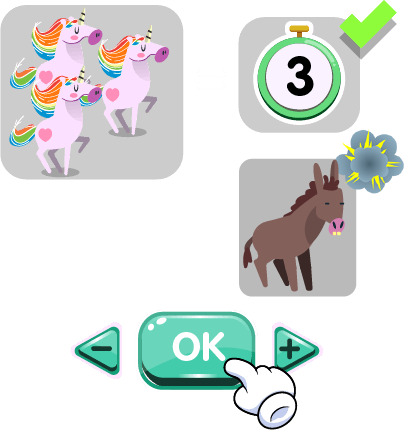
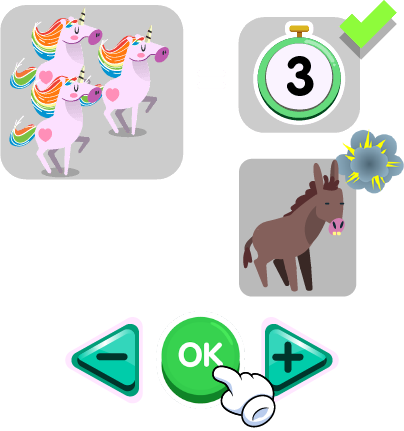
sushiTowers

Changed region(s): [[0.1782, 0.7239, 0.8317, 1.0]]

diff --git a/newStructure/minigames/sushiTowers/js/scenes/sushi.js b/newStructure/minigames/sushiTowers/js/scenes/sushi.js
@@ -58,7 +58,23 @@ var sushi = function(){
                 file: soundsPath + "towerCollapse.mp3"},
 			{   name: "drag",
                 file: soundsPath + "drag.mp3"}
-		]
+		],
+		spritesheets: [
+			{
+				name:"coin",
+                file:"images/spine/coin/coin.png",
+				width:122,
+                height:123,
+                frames:12
+            },
+			{
+                name:"hand",
+                file:"images/spine/hand/hand.png",
+                width:115,
+                height:111,
+                frames:23
+            }
+        ],
     }
 
     var NUM_LIFES = 3
@@ -74,6 +90,7 @@ var sushi = function(){
     
     var lives
 	var sceneGroup = null
+	var handGroup = null
 	var heartsGroup = null
     var gameIndex = 76
     var tutoGroup
@@ -83,6 +100,8 @@ var sushi = function(){
     var inputsEnabled
     var pointsBar
     var sushiList
+	var firstAnimation, secondAnimation;
+	var tutorial
     var sushisInGame
     var gameGroup
     var maxHeight
@@ -91,6 +110,8 @@ var sushi = function(){
     var timeBetween
     var gameActive
     var swipe
+	var hand
+	var coins
     var addBrickCounter
     var speed
 	var yogotars
@@ -112,17 +133,18 @@ var sushi = function(){
         numPoints = 0
         roundCounter = 0
         addBrickCounter = 0
-        speed = 5
+        speed = 4
         timeBetween = 3000
         sushiList = []
         sushisInGame = [[],[],[]]
+		tutorial=true;
 		sushisInGame[0].delaySushi = 0
 		sushisInGame[1].delaySushi = 0
 		sushisInGame[2].delaySushi = 0
 		sushisInGame[0].merging = false
 		sushisInGame[1].merging = false
 		sushisInGame[2].merging = false
-
+		gameEnded=false;
         sceneGroup.alpha = 0
         game.add.tween(sceneGroup).to({alpha:1},400, Phaser.Easing.Cubic.Out,true)
         //inputsEnabled = true
@@ -131,6 +153,7 @@ var sushi = function(){
         
         loadSounds()
         
+		
 	}
 
     function addPoint(number){
@@ -218,6 +241,20 @@ var sushi = function(){
 			}
 		}
 
+    }
+	function Coin(objectBorn,objectDestiny,time){
+        //objectBorn= Objeto de donde nacen
+        coins.x=objectBorn.centerX
+        coins.y=objectBorn.centerY
+        game.add.tween(coins).to({alpha:1}, time, Phaser.Easing.Cubic.In, true,100)
+        game.add.tween(coins).to({y:objectBorn.centerY-100},time+500,Phaser.Easing.Cubic.InOut,true).onComplete.add(function(){
+            game.add.tween(coins).to({x:objectDestiny.centerX,y:objectDestiny.centerY},200,Phaser.Easing.Cubic.InOut,true,time)
+            game.add.tween(coins).to({alpha:0}, time+200, Phaser.Easing.Cubic.In, true,200).onComplete.add(function(){
+                coins.x=objectBorn.centerX
+                coins.y=objectBorn.centerY
+                addPoint(1)
+            })
+        })
     }
     
     function createPart(key){
@@ -423,16 +460,19 @@ var sushi = function(){
 
 		sushisInGame[lane].push(sushi)
 		game.add.tween(sushi).to({alpha:1}, 300, Phaser.Easing.Cubic.Out, true)
-
     }
     
     function startRound() {
 
         for(var brickIndex = 0; brickIndex < 3; brickIndex++){
             var toY = (maxHeight - (brickIndex) * 300)
-            addSushi("sushi1", 1, toY)
-        }
-
+           	addSushi("sushi1", brickIndex, toY);
+		}
+		
+		hand.x=game.world.centerX-200;
+		hand.y=game.world.height-100;
+		
+		firstAnimation=game.add.tween(hand).to({x:hand.x+200,y:hand.y},900,Phaser.Easing.Cubic.Linear,true).loop(true);
     }
 
     function onClickPlay(rect) {
@@ -441,6 +481,7 @@ var sushi = function(){
 	    tutoGroup.y = -game.world.height
 	    gameActive = true
 		startRound()
+		
     }
 
     function sushiAnimation(lane) {
@@ -492,7 +533,6 @@ var sushi = function(){
 			pullGroup.add(container)
 			sushiList[sushi.name].push(container)
 		}
-
 		sushisInGame[sushi.lane].merging = false
 		pullGroup.add(sushi.bg)
 		sushiList.bg.push(sushi.bg)
@@ -542,7 +582,15 @@ var sushi = function(){
 		yogotar.setAnimation(["WIN", "EAT", "IDLE"])
 		game.time.events.add(1350, moveSushi, null, args)
 
-		addPoint(1)
+		Coin(sushi,pointsBar,100);
+		if(tutorial){
+			hand.alpha=0;
+			tutorial=false;
+			if(firstAnimation)
+				firstAnimation.stop();
+			if(secondAnimation)
+				secondAnimation.stop();
+		}
 	}
 
 	function checkOverlap(spriteA, spriteB) {
@@ -634,7 +682,7 @@ var sushi = function(){
 		
 		
 
-		option.tween = game.add.tween(option).to({x: toX, y: toY}, 100, Phaser.Easing.Cubic.Out, true, delay)
+		option.tween = game.add.tween(option).to({x: toX, y: toY}, 150, Phaser.Easing.Cubic.Out, true, delay)
 		option.tween.onComplete.add(function (thisOption) {
 			for(var containerIndex = 0; containerIndex < thisOption.sushiList.length; containerIndex++){
 				var container = thisOption.sushiList[containerIndex]
@@ -671,6 +719,11 @@ var sushi = function(){
 		sushi.container = null
 		game.input.enabled = false
 		sound.play("flip")
+		if(tutorial && sushisInGame[2][0]!=null){
+			firstAnimation.stop()
+			hand.x=hand.x+300;
+			secondAnimation=game.add.tween(hand).to({x:hand.x-200,y:hand.y},900,Phaser.Easing.Cubic.Linear,true).loop(true);
+		}
 		var numNeeded = prevSushi.denom - prevSushi.num
 		var difNumSushi = sushi.num - numNeeded < 0 ? sushi.num : numNeeded
 		prevSushi.num += difNumSushi
@@ -724,6 +777,9 @@ var sushi = function(){
 
 		if(gameEnded)
 			return
+			
+			
+			
 		
 		for(var lineIndex = 0; lineIndex < sushisInGame.length; lineIndex++) {
 			var sushiLane = sushisInGame[lineIndex]
@@ -771,7 +827,6 @@ var sushi = function(){
 							missPoint()
 						}*/
 					}
-					
 					lastSushi = sushi
 				}
 				
@@ -781,7 +836,7 @@ var sushi = function(){
 			if(sushiLane.delaySushi > 0)
 				sushiLane.delaySushi -= speed
 			
-			if((allBottom)&&(lastSushi)&&(lastSushi.y <= 340)&&(!sushiLane.merging)){
+			if((allBottom)&&(lastSushi)&&(lastSushi.y <= 330)&&(!sushiLane.merging)){
 				sushiAnimation(lineIndex)
 				sound.play("wrong")
 //				wrongParticle.x = lastSushi.centerX
@@ -862,6 +917,7 @@ var sushi = function(){
 		var playText = tutoGroup.create(game.world.centerX, button.y,'buttonText')
 		playText.anchor.setTo(0.5,0.5)*/
     }
+	
 
 	function createSpine(skeleton, skin, idleAnimation, x, y) {
 		idleAnimation = idleAnimation || "IDLE"
@@ -940,7 +996,9 @@ var sushi = function(){
         create: function(event){
 
             // swipe = new Swipe(game)
+			
 			sceneGroup = game.add.group(); yogomeGames.mixpanelCall("enterGame",gameIndex,lives,parent.epicModel);
+			handGroup = game.add.group();
 			
 
 			var bgRect = game.add.graphics()
@@ -982,6 +1040,14 @@ var sushi = function(){
 			lamp.y = 40
 			sceneGroup.add(lamp)
 
+			//Coins
+			coins=game.add.sprite(game.world.centerX,game.world.centerY, "coin");
+			coins.anchor.setTo(0.5);
+			coins.scale.setTo(0.5);
+			coins.animations.add('coin');
+			coins.animations.play('coin', 24, true);
+			coins.alpha=0;
+			
 			var barsGroup = game.add.group()
 			barsGroup.x = game.world.centerX
 			barsGroup.y = game.world.height
@@ -1011,8 +1077,16 @@ var sushi = function(){
 				barLanes.push(singleBar)
 
 			}
-
+			hand=game.add.sprite(100,100, "hand")
+			hand.anchor.setTo(0,0);
+			hand.scale.setTo(0.7,0.7);
+			hand.animations.add('hand');
+			hand.animations.play('hand', 24, true);
+			hand.alpha=1;
+			handGroup.add(hand);
+			
 			sushiSong = game.add.audio('dojoSong')
+			
             game.sound.setDecodedCallback(sushiSong, function(){
                 sushiSong.loopFull(0.6)
             }, this);
